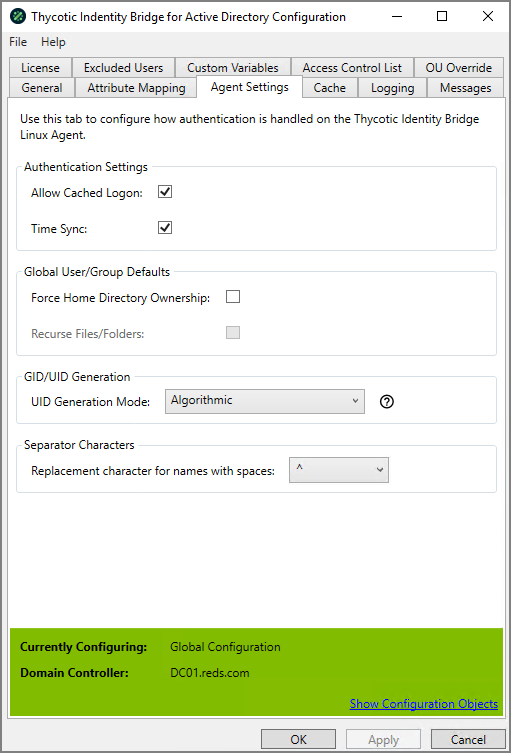
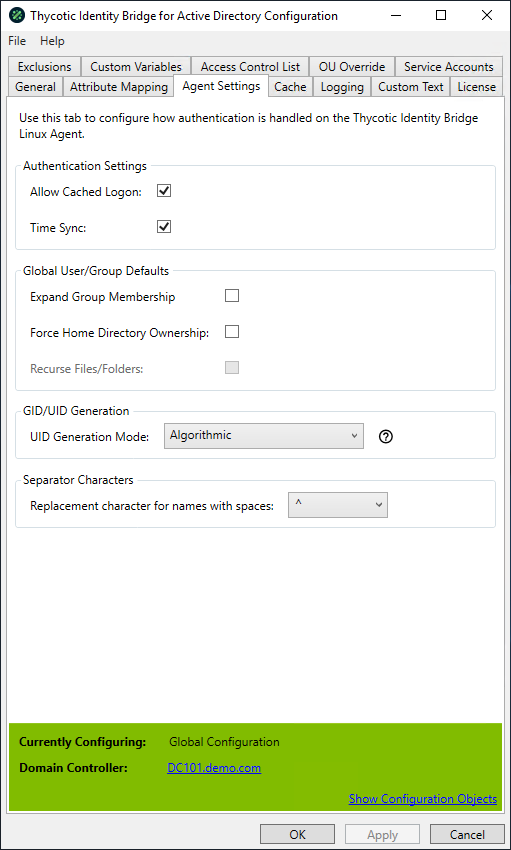
#215133: new release updates

diff --git a/cfg-util/agent-settings/index.md b/cfg-util/agent-settings/index.md
@@ -3,7 +3,7 @@
 [priority]: # (6)
 # Agent Settings
 
-Interface with Linux/Unix agents to manage user account locally defined on the agents.
+Interface with Unix/Linux agents to manage user account locally defined on the agents.
 
 ![agent settings](../images/agent-settings.png "Agent Settings tab of the Bridge Configuration tool")
 
@@ -11,20 +11,41 @@ Interface with Linux/Unix agents to manage user account locally defined on the a
 
 ### Allow Cached Logon
 
-Allows Active Directory Users to access Linux\Unix hosts using the encrypted cached information stored on the host
+Allows Active Directory Users to access Unix/Linux hosts using the encrypted cached information stored on the host
 
-* A user must of logged onto the Linux\Unix Host previously for a cache entry to of been created.
-* Default value for Allow Cached Logon: Enabled.
+* A user must of logged onto the Unix/Linux Host previously for a cache entry to of been created.
+* Default: Enabled.
 
 ### Time Sync
 
-Updates the Linux\Unix Hosts date & time to be the same as the Domain Controller of the Active Directory.
+Updates the Unix/Linux Hosts date & time to be the same as the Domain Controller of the Active Directory.
 
 * Synchronises date and Time upon the host joining the Domain
 * Enables a service on the host to keep the time within a minute of the Domain Controller
 * Default value for Time Sync: Enabled
 
-## GID/UID Generation
+## Global User/Group Defaults
+
+### Expanded Group Membership
+
+Displays Active Directory Users extended group memberships when logged into the Unix/Linux hosts.
+
+* When Disabled, the logged in Active Directory user will only see the groups the user is a member of directly.
+* When Enabled, the logged in Active Directory user will also see any additional groups the users assigned groups are members of.
+* Default: Disabled
+
+### Force Home Directory Ownership
+
+When Active Directory users log into the Unix/Linux hosts the home directory ownership will be forcibly set to be owned by the user logging in.
+
+* Default: Disabled
+
+### Recurse Files/Folders
+
+Used in conjunction with Force Home Directory Ownership, when enabled all files and folders within the user's home directory will also have the ownership set to the Active Directory user logging into the Unix/Linux host.
+
+* Can't be enabled unless Force Home Directory Ownership is enabled
+* Default: Disabled## GID/UID Generation
 
 ### UID Generation Mode
 
@@ -32,11 +53,11 @@ Defines the format in which the UID and GID will be generate starting from the d
 
 * Incremental – Will select the next ID available ID for user or group starting from the defined id
   * If a value has been previously assigned and removed it will not be added back to the available pool
-* Algorithmic – Will randomly generate an available ID for user or group excluding the defined starting ID or lower
+* Default: Algorithmic
 
 ## Separator Characters
 
 Replacement character for names with spaces
-Defines how spaces in User and Group names will be displayed on the LInux\Unix hosts
+Defines how spaces in User and Group names will be displayed on the Unix/Linux hosts
 
-* Default value Replacement character for names with spaces: ^
+* Default: __^__

diff --git a/cfg-util/acl/index.md b/cfg-util/acl/index.md
@@ -38,9 +38,10 @@ Allows filtering of exiting ACLs defined in the display panel
 
 Displays that ACL combinations of Users and Hosts defined at a Global level.
 
-* Once an ACL has been defined all access must abide by ACL rules
-* By default when an ACL is added permission for the ACL is enabled
-* Denied - When selected login access to the user host combination will be denied
+* Once an ACL has been defined all access must abide by ACL rules.
+* By default when an ACL is added permission for the ACL is enabled.
+* Denied - When selected login access to the user host combination will be denied.
+* Expand - When selected will display nested groups in the ACL report on the Unix/Linux Hosts.
 
 #### Test Access of User/Computer
 

diff --git a/release-notes/rn-1.1.1.md b/release-notes/rn-1.1.1.md
@@ -1,0 +1,13 @@
+[title]: # (1.1.1 Release)
+[tags]: # (read me)
+[priority]: # (30997)
+# 1.1.1 Release Notes
+
+_December 1st, 2020_:
+
+## Enhancements
+
+Enhancements available with the 1.1.1 release of Identity Bridge.
+
+* Added [Expand option to Access Control List Panel](../cfg-util/acl/index.md#panel).
+* Added [Global User/Group Defaults](../cfg-util/agent-settings/index.md) on Agent Settings tab.

diff --git a/release-notes/changelog.md b/release-notes/changelog.md
@@ -5,6 +5,13 @@
 
 This topic provides a chronological list of documentation changes. Minor content alterations are not tracked.
 
+## December 2020
+
+Added information to:
+
+* [Access Control List tab](../cfg-util/acl/index.md#panel).
+* [Agent Settings tab](../cfg-util/agent-settings/index.md).
+
 ## November 2020
 
 Changes in support of the Identity Bridge 1.1.0 feature release.

diff --git a/release-notes/index.md b/release-notes/index.md
@@ -5,6 +5,7 @@
 
 This section includes the most recent Identity Bridge Release Notes.
 
+* [1.1.1 Release Notes - Feature Release](rn-1.1.1.md)
 * [1.1.0 Release Notes - Feature Release](rn-1.1.0.md)
 * [1.0.1 Release Notes - Bug Fix Release](rn-1.0.1.md)
 * [1.0.0 Release Notes - Initial Release](rn-1.0.0.md)
